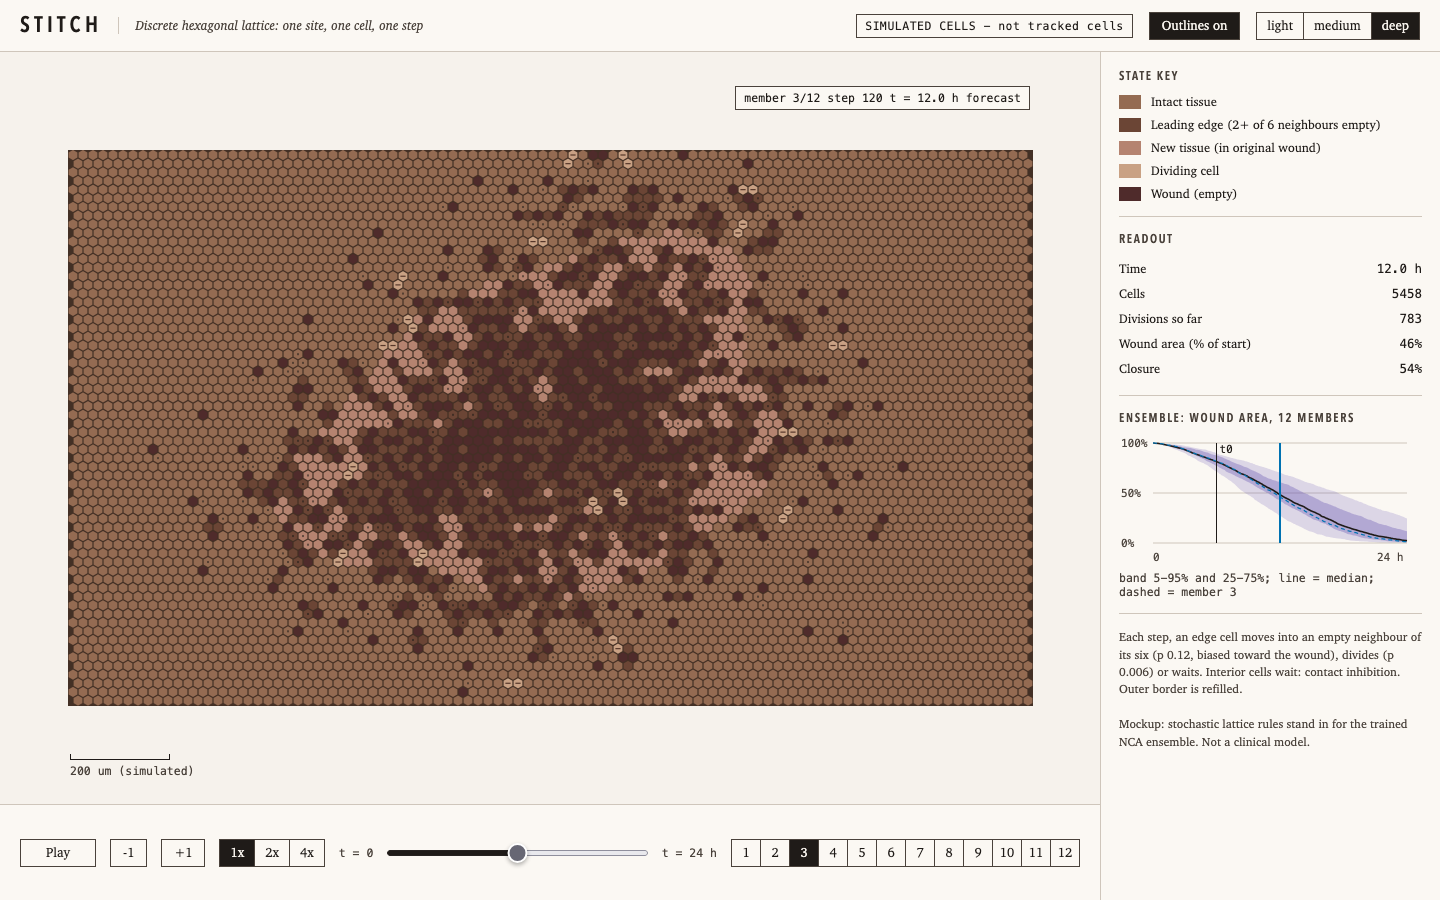
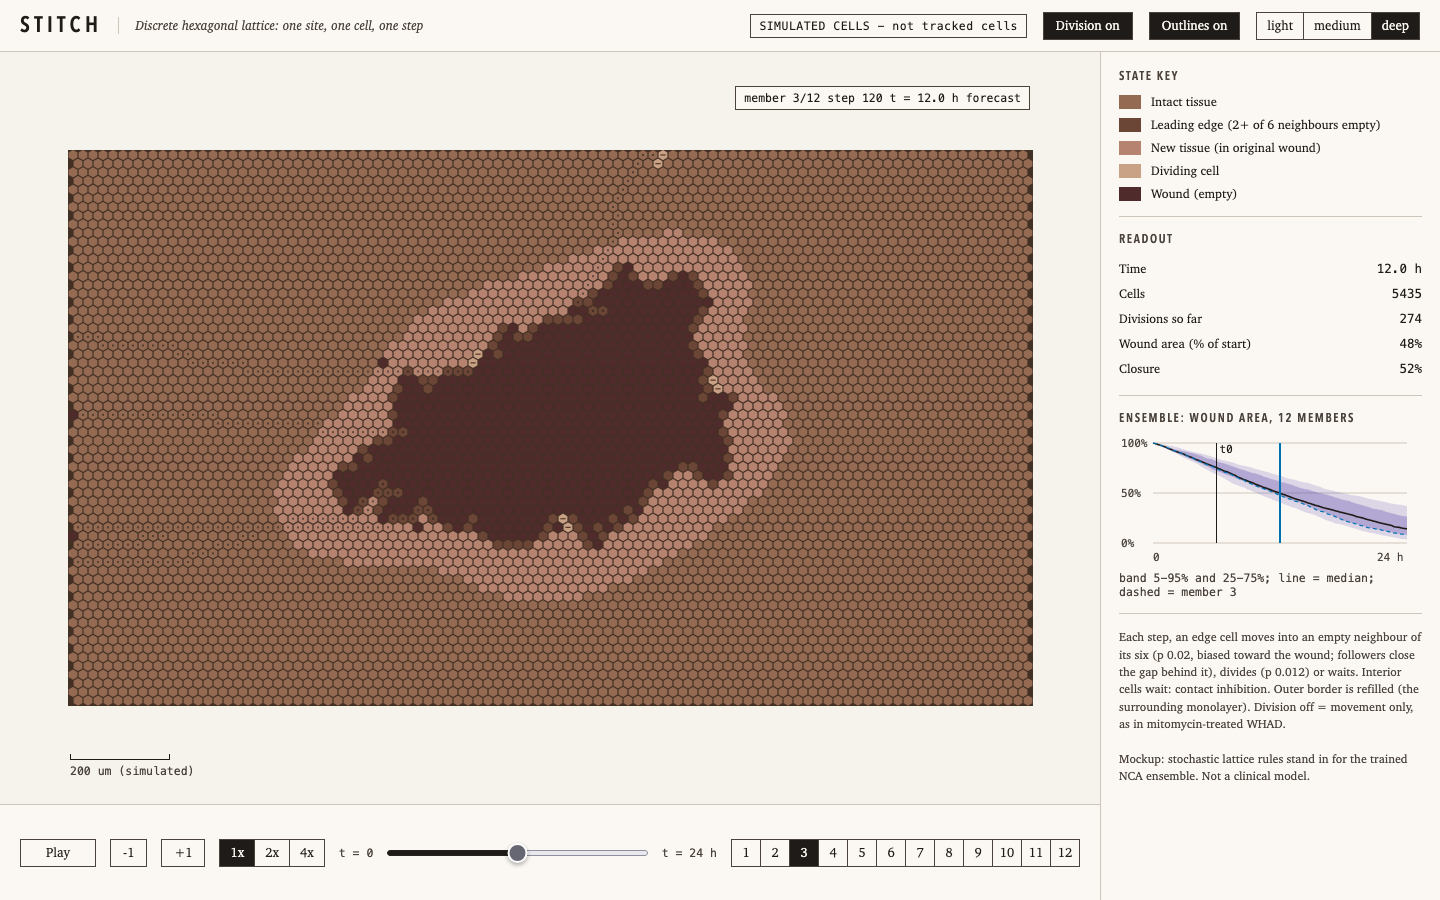
NCA mockups: division on/off toggle; sheet-like movement (followers fill gaps)

diff --git a/design/shared/ncamock.js b/design/shared/ncamock.js
@@ -6,7 +6,7 @@ const PALS={
   light:{intact:'#E9D3C0',edge:'#C98F7C',div:'#F8EEDC',fresh:'#F3D9D2',wound:'#B0645C'},
   medium:{intact:'#CBA783',edge:'#A87558',div:'#EAD6B4',fresh:'#DDB3A3',wound:'#92514A'},
   deep:{intact:'#946B52',edge:'#6B4535',div:'#C9A184',fresh:'#B58370',wound:'#4F2B2B'}};
-const OPT={W:96,H:64,steps:240,pm:.12,pd:.006,beta:1.6,refill:.07,hoursPerStep:.1,t0:60};
+const OPT={W:96,H:64,steps:240,pm:.02,pd:.012,beta:1.6,refill:.7,hoursPerStep:.1,t0:60};
 const hex=h=>[1,3,5].map(i=>parseInt(h.slice(i,i+2),16));
 const mix=(a,b,t)=>{const A=hex(a),B=hex(b);return'#'+A.map((v,i)=>Math.round(v+(B[i]-v)*t).toString(16).padStart(2,'0')).join('')};
 function rng(seed){let s=seed>>>0;return()=>{s=(s+0x6D2B79F5)>>>0;let t=s;t=Math.imul(t^t>>>15,t|1);t^=t+Math.imul(t^t>>>7,t|61);return((t^t>>>14)>>>0)/4294967296}}
@@ -14,9 +14,9 @@ function rng(seed){let s=seed>>>0;return()=>{s=(s+0x6D2B79F5)>>>0;let t=s;t=Math
 const HY=.8660254,PXc=(x,y)=>x+.5*(y&1)+.5,PYc=y=>y*HY+.5;
 const NBE=[[1,0],[-1,0],[0,-1],[-1,-1],[0,1],[-1,1]],NBO=[[1,0],[-1,0],[1,-1],[0,-1],[1,1],[0,1]];
 const nbrsOf=y=>(y&1)?NBO:NBE;
-function run(seed,record){
+function run(seed,record,div){
   const o=Object.assign({},OPT),W=o.W,H=o.H,N=W*H,R=rng(seed*7919+13),S=rng(5);
-  o.pm*=.7+.6*R();o.pd*=.6+.8*R();
+  o.pm*=.7+.6*R();o.pd*=.6+.8*R();if(div===false)o.pd=0;
   const cx=.5*(W+.5),cy=.5*(H*HY+.134),A=.26*W,B=.17*W,rot=-.35,ca=Math.cos(rot),sa=Math.sin(rot);
   const p1=S()*6.28,p2=S()*6.28;
   const orig=new Uint8Array(N),id=new Int32Array(N).fill(-1);
@@ -51,7 +51,14 @@ function run(seed,record){
       for(const[dx,dy]of nbrsOf(y)){const nx=x+dx,ny=y+dy;if(nx>=0&&ny>=0&&nx<W&&ny<H&&id[ny*W+nx]<0)em.push([nx,ny])}
       if(!em.length)continue;
       const r=R();
-      if(r<o.pm){const[nx,ny]=pick(x,y,em);id[y*W+x]=-1;id[ny*W+nx]=c;X[c]=nx;Y[c]=ny}
+      if(r<o.pm){const[nx,ny]=pick(x,y,em);id[y*W+x]=-1;id[ny*W+nx]=c;X[c]=nx;Y[c]=ny;
+        let vx=x,vy=y;
+        for(let it=0;it<60;it++){ // followers fill the vacancy outward (sheet moves together)
+          let best=null,bd=Math.hypot(PXc(vx,vy)-cx,PYc(vy)-cy);
+          for(const[dx,dy]of nbrsOf(vy)){const ax=vx+dx,ay=vy+dy;if(ax<0||ay<0||ax>=W||ay>=H)continue;const f=id[ay*W+ax];if(f<0)continue;const d=Math.hypot(PXc(ax,ay)-cx,PYc(ay)-cy);if(d>bd+.2&&R()<.9){bd=d;best=[ax,ay,f]}}
+          if(!best)break;
+          const[ax,ay,f]=best;id[vy*W+vx]=f;id[ay*W+ax]=-1;X[f]=vx;Y[f]=vy;vx=ax;vy=ay;
+        }}
       else if(r<o.pm+o.pd){const[nx,ny]=pick(x,y,em);add(nx,ny,x,y,k,2);DIV[c]=k;DIV[X.length-1]=k;nd++;live++}
     }
     for(let y=0;y<H;y++)for(let x=0;x<W;x++){
@@ -96,14 +103,14 @@ table{border-collapse:collapse;width:100%;font-size:12.5px}td{padding:4px 0}td+t
 
 function mount(mode){
   const q=new URLSearchParams(location.search),tone=PALS[q.get('tone')]?q.get('tone'):'medium';
-  let pal=PALS[tone],member=Math.max(1,Math.min(12,+q.get('member')||3)),pos=q.has('p')?+q.get('p'):120,playing=q.get('play')!=='0',speed=1,outline=q.get('outline')!=='0';
+  let pal=PALS[tone],member=Math.max(1,Math.min(12,+q.get('member')||3)),pos=q.has('p')?+q.get('p'):120,playing=q.get('play')!=='0',speed=1,outline=q.get('outline')!=='0',div=q.get('div')!=='0';
   const grid=mode==='grid',S=10;
   document.head.appendChild(Object.assign(document.createElement('style'),{textContent:CSS}));
   const title=grid?'M10 NCA discrete grid':'M11 NCA organic';
   document.title='Stitch | '+title;
   document.body.innerHTML=`<div id="app">
 <header><span class="word">Stitch</span><span class="sub">${grid?'Discrete hexagonal lattice: one site, one cell, one step':'Organic view: the same rules, drawn as moving, dividing cells'}</span><span class="sp"></span>
-<span class="chip">SIMULATED CELLS - not tracked cells</span>${grid?`<button id="ol" aria-pressed="${outline}">Outlines ${outline?'on':'off'}</button>`:''}
+<span class="chip">SIMULATED CELLS - not tracked cells</span><button id="dv" aria-pressed="${div}">Division ${div?'on':'off'}</button>${grid?`<button id="ol" aria-pressed="${outline}">Outlines ${outline?'on':'off'}</button>`:''}
 <span class="seg" role="group" aria-label="Tissue tone">${['light','medium','deep'].map(t=>`<button data-tone="${t}" aria-pressed="${t===tone}">${t}</button>`).join('')}</span></header>
 <div id="stage"><canvas id="cv"></canvas><div id="tag" class="mono"></div><div id="scale"><i></i>200 um (simulated)</div></div>
 <aside>
@@ -111,7 +118,7 @@ function mount(mode){
 <div class="sec"><h3>Readout</h3><table id="ro"></table></div>
 <div class="sec"><h3>Ensemble: wound area, 12 members</h3><canvas id="ch" width="592" height="260" style="width:296px;height:130px;display:block"></canvas>
 <div class="lab" style="margin-top:6px">band 5-95% and 25-75%; line = median; dashed = member ${member}</div></div>
-<div class="note">${grid?'Each step, an edge cell moves into an empty neighbour of its six (p 0.12, biased toward the wound), divides (p 0.006) or waits. Interior cells wait: contact inhibition. Outer border is refilled.':'Same rules and same numbers as M10. Moves and divisions are interpolated between steps and cells are drawn as soft blobs, so no grid shows. Division = pale cell with two nuclei, then a daughter eases out.'}
+<div class="note">${grid?'Each step, an edge cell moves into an empty neighbour of its six (p 0.02, biased toward the wound; followers close the gap behind it), divides (p 0.012) or waits. Interior cells wait: contact inhibition. Outer border is refilled (the surrounding monolayer). Division off = movement only, as in mitomycin-treated WHAD.':'Same rules and same numbers as M10. Moves and divisions are interpolated between steps and cells are drawn as soft blobs, so no grid shows. Division = pale cell with two nuclei, then a daughter eases out.'}
 <br><br>Mockup: stochastic lattice rules stand in for the trained NCA ensemble. Not a clinical model.</div>
 </aside>
 <div id="dock"><button id="pp" aria-label="Play or pause" style="width:76px"></button>
@@ -121,8 +128,7 @@ function mount(mode){
 <span class="seg" id="mem" role="group" aria-label="Ensemble member"></span></div></div>`;
   const $=s=>document.querySelector(s),cv=$('#cv'),ctx=cv.getContext('2d');
   const dpr=2,CW=Math.round((OPT.W+.5)*S),CH=Math.round((OPT.H*HY+.134)*S);cv.width=CW*dpr;cv.height=CH*dpr;cv.style.width=CW+'px';cv.style.height=CH+'px';ctx.scale(dpr,dpr);
-  const ens=[];for(let m=1;m<=12;m++)ens.push(run(m,false));
-  let cur=run(member,true);
+  let ens,cur;const build=()=>{ens=[];for(let m=1;m<=12;m++)ens.push(run(m,false,div));cur=run(member,true,div)};build();
   function legend(){
     const items=[['intact','Intact tissue'],['edge','Leading edge (2+ of 6 neighbours empty)'],['fresh','New tissue (in original wound)'],['div','Dividing cell'],['wound','Wound (empty)']];
     $('#leg').innerHTML=items.map(([k,n])=>`<i style="background:${pal[k]}"></i><span>${n}</span>`).join('');
@@ -191,8 +197,9 @@ function mount(mode){
   $('#mem').innerHTML=[1,2,3,4,5,6,7,8,9,10,11,12].map(m=>`<button data-m="${m}" aria-pressed="${m===member}" style="min-width:30px;padding:0 6px">${m}</button>`).join('');
   document.querySelectorAll('[data-tone]').forEach(b=>b.onclick=()=>{const u=new URL(location.href);u.searchParams.set('tone',b.dataset.tone);location.href=u});
   document.querySelectorAll('[data-s]').forEach(b=>b.onclick=()=>{speed=+b.dataset.s;document.querySelectorAll('[data-s]').forEach(x=>x.setAttribute('aria-pressed',x===b))});
-  document.querySelectorAll('[data-m]').forEach(b=>b.onclick=()=>{member=+b.dataset.m;cur=run(member,true);document.querySelectorAll('[data-m]').forEach(x=>x.setAttribute('aria-pressed',x===b));frame()});
+  document.querySelectorAll('[data-m]').forEach(b=>b.onclick=()=>{member=+b.dataset.m;cur=run(member,true,div);document.querySelectorAll('[data-m]').forEach(x=>x.setAttribute('aria-pressed',x===b));frame()});
   if(grid)$('#ol').onclick=e=>{outline=!outline;e.target.setAttribute('aria-pressed',outline);e.target.textContent='Outlines '+(outline?'on':'off');frame()};
+  $('#dv').onclick=e=>{div=!div;e.target.setAttribute('aria-pressed',div);e.target.textContent='Division '+(div?'on':'off');build();frame()};
   $('#pp').onclick=()=>{playing=!playing;frame()};
   $('#bk').onclick=()=>{playing=false;pos=Math.max(0,Math.round(pos)-1);frame()};
   $('#fw').onclick=()=>{playing=false;pos=Math.min(OPT.steps,Math.round(pos)+1);frame()};

diff --git a/design/mockups/m10-nca-grid/README.md b/design/mockups/m10-nca-grid/README.md
@@ -1,3 +1,5 @@
 # M10 NCA discrete grid
 
 One lattice site = one cell, stepped, on a hexagonal lattice (6 neighbours). Visible hexagonal sites, state colours, a dot on cells that moved, a split mark on dividing cells. Shared engine: `design/shared/ncamock.js` (stochastic lattice rules standing in for the trained NCA ensemble; 12 members; ribbon with t0). Open `index.html` (`?tone=light|medium|deep&member=1-12&p=<step>&play=0`).
+
+Toggle **Division on/off** (`?div=0`): off = movement only (the WHAD mitomycin case); the ensemble ribbon is recomputed for the chosen setting.

diff --git a/design/mockups/m11-nca-organic/README.md b/design/mockups/m11-nca-organic/README.md
@@ -1,3 +1,5 @@
 # M11 NCA organic
 
 Same engine and numbers as M10, drawn as soft blobs with no grid or outlines. Moves and divisions are interpolated between steps; a dividing cell is pale with two nuclei and the daughter eases out. Open `index.html` (`?tone=...&member=...&p=<step>&play=0`).
+
+Toggle **Division on/off** (`?div=0`): off = movement only (the WHAD mitomycin case); the ensemble ribbon is recomputed for the chosen setting.
